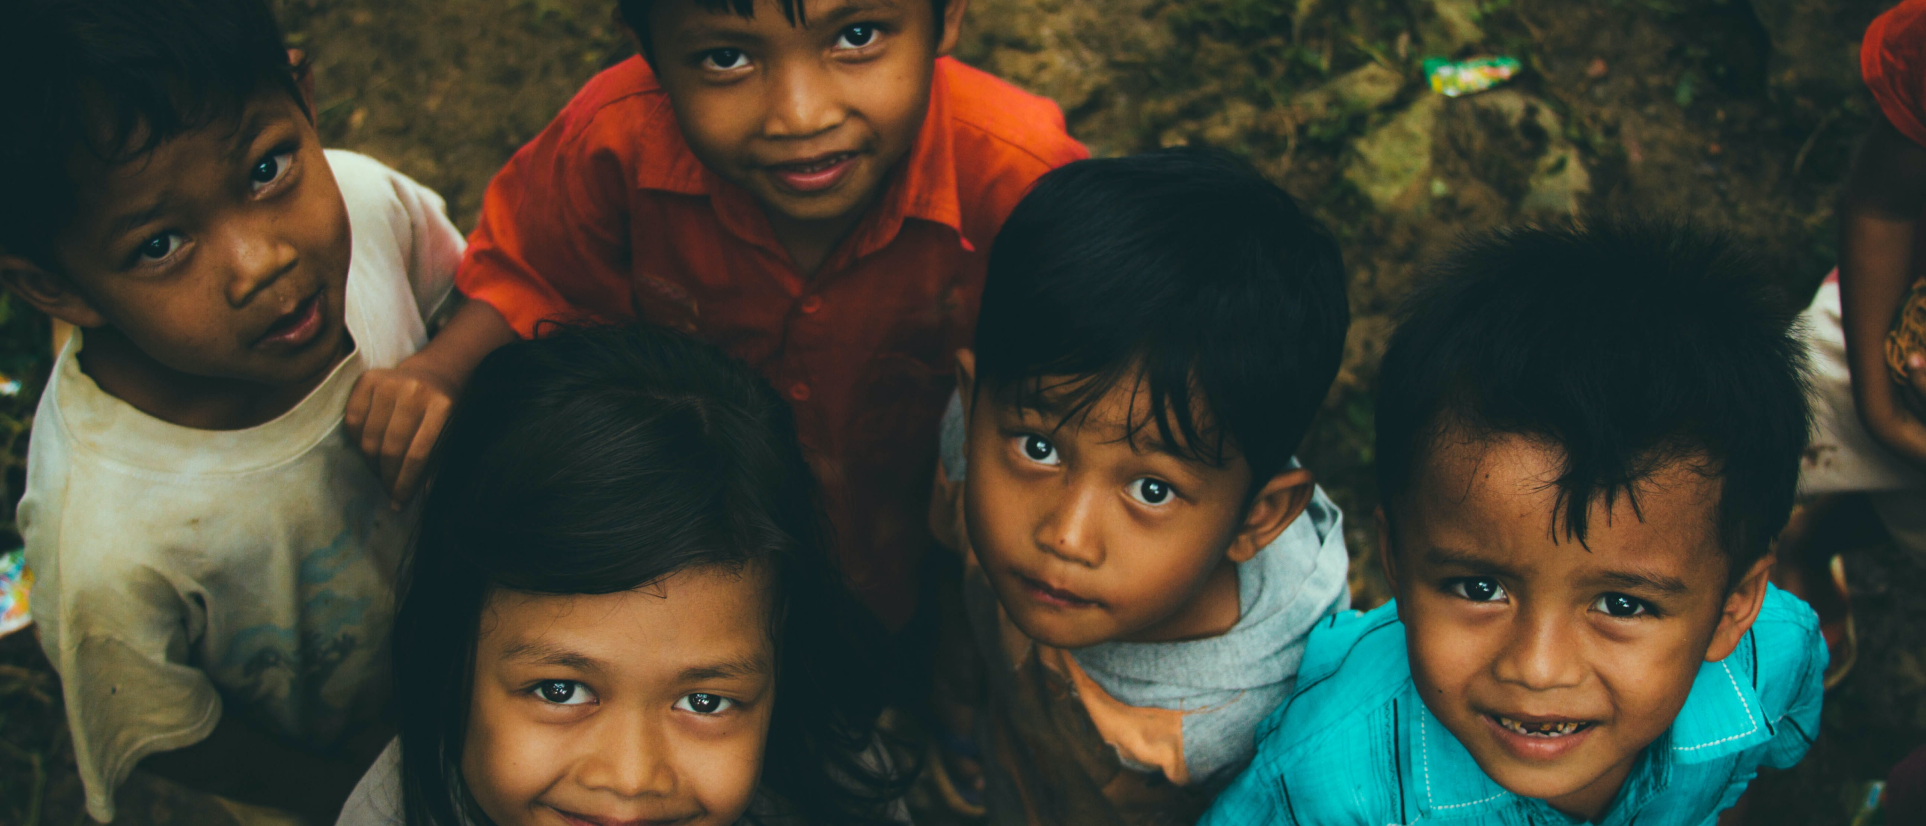
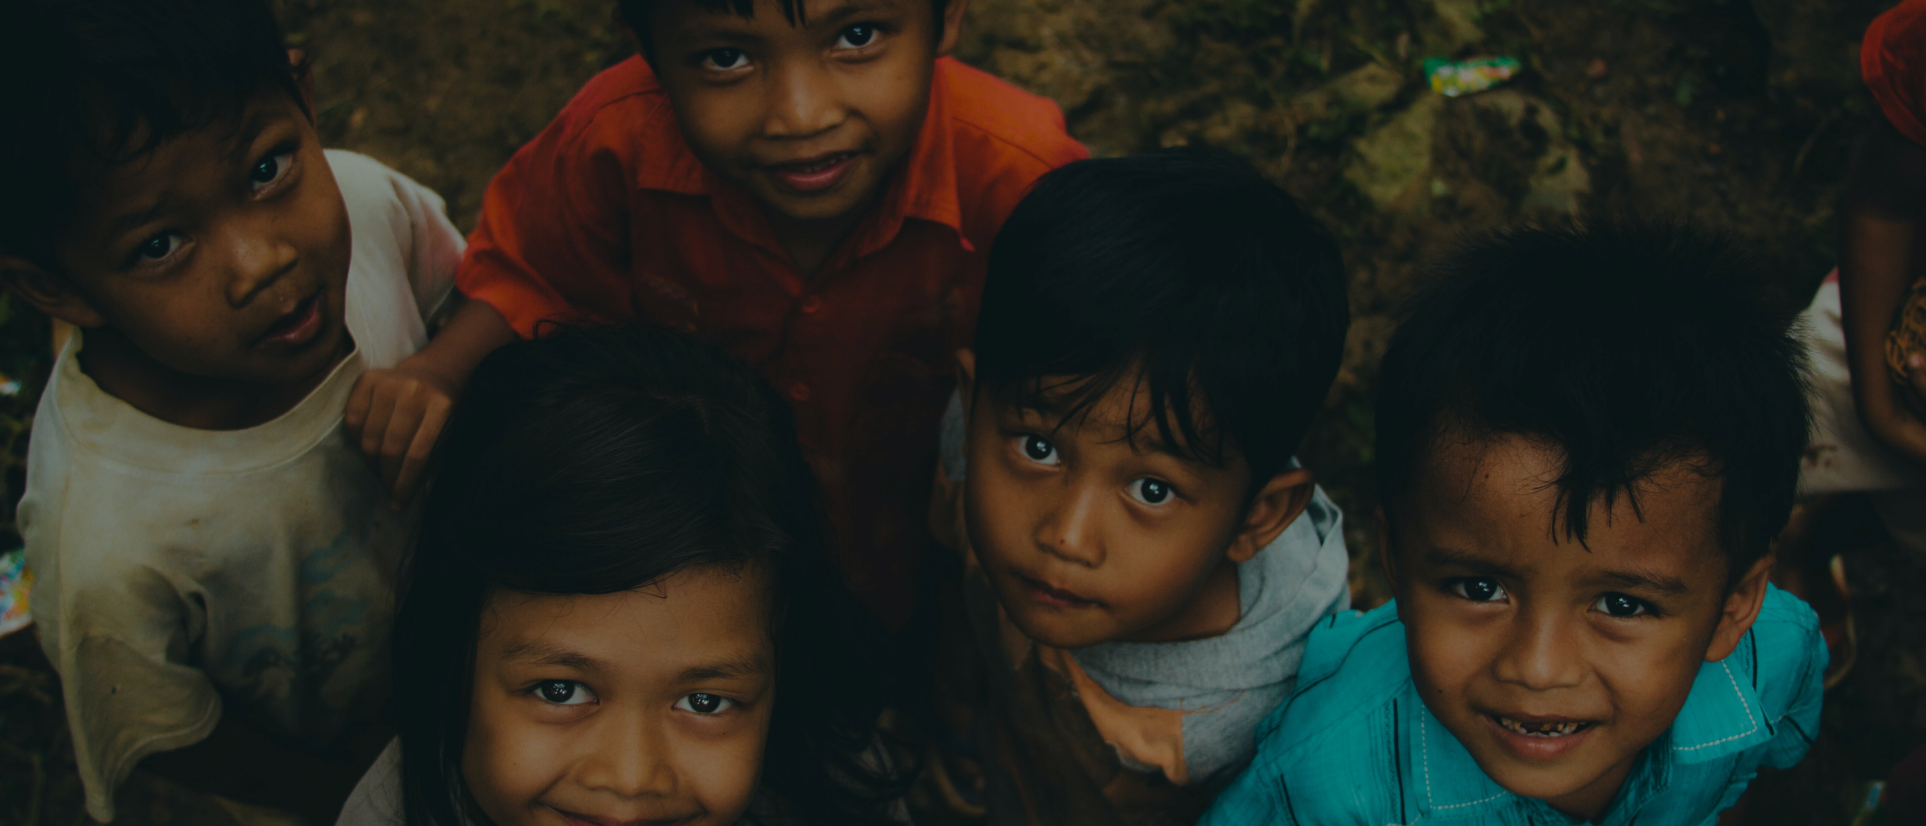
feat: all the fix are working

diff --git a/src/components/Navbar/index.jsx b/src/components/Navbar/index.jsx
@@ -3,15 +3,21 @@ import { useTranslation } from "next-i18next";
 import { useEffect, useState } from "react";
 import { useSelector } from "react-redux";
 
+import LanguageDropdown from "../Language";
+
 function Navbar() {
     const productData = useSelector((state) => state.shopper.productData);
     const [totalAmt, setTotalAmt] = useState("");
-    const [isSelected, setIsSelected] = useState(false);
-    const { t } = useTranslation("common");
 
-    function handleLagSelection() {
-        setIsSelected((isSelected) => !isSelected);
-    }
+    const { t, i18n } = useTranslation("navbar");
+    const [selectedLanguage, setSelectedLanguage] = useState(i18n.language);
+    const [isSelected, setIsSelected] = useState(false);
+
+    const handleLanguageChange = (languageChange) => {
+        setSelectedLanguage(languageChange);
+        setIsSelected(false);
+        i18n.changeLanguage(languageChange);
+    };
 
     useEffect(() => {
         let price = 0;
@@ -23,7 +29,7 @@ function Navbar() {
     }, [productData]);
 
     return (
-        <nav className='flex items-center justify-center  bg-sky-400 h-16'>
+        <nav className='flex items-center justify-center  bg-[#43AFD6] h-16'>
             <div className='flex items-center justify-center gap-40'>
                 {/* Logo and the name of the website the icon */}
 
@@ -31,7 +37,7 @@ function Navbar() {
                     <Link href='/'>
                         <img src='/Logo.svg' alt='Logo' className='mt-4' />
                     </Link>
-                    <div className='grid md:flex mx-auto justify-items-start text-slate-100 hover:text-gray-500 text-xl font-bold md:text-2x'>
+                    <div className='md:flex mx-auto justify-items-start text-slate-100 hover:text-gray-500 text-xl font-bold md:text-2x hidden'>
                         <Link href='/home'>
                             <img
                                 src='/LogoFood.svg'
@@ -45,17 +51,17 @@ function Navbar() {
                 </div>
                 <div className='hidden md:flex px-4 mx-auto font-semibold font-heading space-x-0'>
                     <Link href='/home'>
-                        <p className='text-slate-100 bg-sky-400 py-5 px-5 hover:bg-sky-300'>
+                        <p className='text-slate-100 bg-[#43AFD6] py-5 px-5 hover:bg-[#43acd6]'>
                             {t("navbar.home")}
                         </p>
                     </Link>
                     <Link href='/coupons'>
-                        <p className='text-slate-100 bg-sky-400 py-5 px-5 hover:bg-sky-300'>
+                        <p className='text-slate-100 bg-[#43AFD6] py-5 px-5 hover:bg-[#43acd6]'>
                             {t("navbar.coupons")}
                         </p>
                     </Link>
                     <Link href='/Blog'>
-                        <p className='text-slate-100 bg-sky-400 py-5 px-5 hover:bg-sky-300'>
+                        <p className='text-slate-100 bg-[#43AFD6] py-5 px-5 hover:bg-[#43acd6]'>
                             {t("navbar.blog")}
                         </p>
                     </Link>
@@ -83,19 +89,18 @@ function Navbar() {
                     </div>
 
                     <div>
-                        <div
-                            className='w-10 h-10 font-bold text-center pt-2 bg-white rounded-full'
-                            onClick={handleLagSelection}
-                        >
-                            {isSelected ? (
-                                <Link href='/' locale='en'>
-                                    EN
-                                </Link>
-                            ) : (
-                                <Link href='/' locale='ar'>
-                                    AR
-                                </Link>
-                            )}
+                        <div className='flex items-center space-x-5'>
+                            <LanguageDropdown
+                                selectedLanguage={selectedLanguage}
+                                onLanguageChange={handleLanguageChange}
+                            />
+                            <div onClick={() => setIsSelected(!isSelected)}>
+                                {isSelected ? (
+                                    <Link href='/' locale='en'></Link>
+                                ) : (
+                                    <Link href='/' locale='ar'></Link>
+                                )}
+                            </div>
                         </div>
                     </div>
                 </div>

diff --git a/src/pages/Blog.jsx b/src/pages/Blog.jsx
@@ -1,60 +1,56 @@
-import { useTranslation } from "next-i18next";
-import React, { useEffect, useState } from "react";
 import Link from "next/link";
+import { useTranslation } from "next-i18next";
+import React from "react";
+
 import BlogCard from "@/components/BlogCard";
 
 function Blog({ articles }) {
-    const { t } = useTranslation("blog", "common", "footer");
+    const { t } = useTranslation("blog", "footer", "navbar");
 
     return (
         <div>
-            <div className='absolute flex items-center justify-between'>
+            <div className='bg-cover bg-center h-[30vh] sm:h-[50vh] md:h-[70vh] text-white object-fill'>
                 <img
-                    className='relative top-0 right-0 bottom-0 left-0 h-full w-full overflow'
+                    className='top-0 left-0 h-full w-full object-cover'
                     src='children.png'
                     alt='children image'
                 />
-                <div className='absolute top-0 right-0 bottom-0 left-0 h-full w-full overflow bg-[hsla(0,0%,0%,0.75)]'>
-                    <div className='flex h-full items-center justify-center'>
-                        <div className='px-6 text-center text-white md:px-12'>
-                            <h1 className='mt-2 mb-1 text-4xl font-semibold tracking-tight'>
-                                <span>{t("blog.lives")}</span>
-                            </h1>
-                            <p className='text-xl mb-10'>{t("blog.give")}</p>
 
-                            <button
-                                onClick={() =>
-                                    console.log("Donate button clicked")
-                                }
-                                className='bg-green-500 hover:bg-green-700 text-white font-bold py-2 px-4 rounded-full w-[150px]'
+                <div className='absolute top-1/2 text-white left-1/2 transform -translate-x-1/2 -translate-y-1/2 text-center'>
+                    <h1 className='text-4xl  font-semibold tracking-tight mb-1'>
+                        <span>{t("blog.lives")}</span>
+                    </h1>
+                    <p className='text-xl mb-10'>{t("blog.give")}</p>
+
+                    <button
+                        onClick={() => console.log("Donate button clicked")}
+                        className='bg-green-500 hover:bg-green-700 text-white font-bold py-2 px-4 rounded-full w-[150px]'
+                    >
+                        Donate 🤍
+                    </button>
+                </div>
+            </div>
+
+            <div>
+                <p className='text-xl font-semibold text-sky-600'>
+                    {t("blog.latest")}
+                </p>
+                <p className='text-gray-600'>{t("blog.needs")}</p>
+            </div>
+
+            <div>
+                <div className='flex flex-wrap justify-center'>
+                    {articles?.map((article, index) => (
+                        <div key={index} className='mx-2'>
+                            <Link
+                                href={`/blog/${encodeURIComponent(
+                                    article.title
+                                )}`}
                             >
-                                Donate 🤍
-                            </button>
+                                <BlogCard blog={article} />
+                            </Link>
                         </div>
-                    </div>
-
-                    <div>
-                        <p className='text-xl font-semibold text-sky-600'>
-                            {t("blog.latest")}
-                        </p>
-                        <p className='text-gray-600'>{t("blog.needs")}</p>
-                    </div>
-
-                    <div>
-                        <div className='flex flex-wrap justify-center'>
-                            {articles?.map((article, index) => (
-                                <div key={index} className='mx-2'>
-                                    <Link
-                                        href={`/blog/${encodeURIComponent(
-                                            article.title
-                                        )}`}
-                                    >
-                                        <BlogCard blog={article} />
-                                    </Link>
-                                </div>
-                            ))}
-                        </div>
-                    </div>
+                    ))}
                 </div>
             </div>
         </div>

diff --git a/src/components/Language/index.jsx b/src/components/Language/index.jsx
@@ -1,0 +1,82 @@
+import React, { useState } from "react";
+
+const LanguageDropdown = ({ selectedLanguage, onLanguageChange }) => {
+    const [isOpen, setIsOpen] = useState(false);
+
+    const handleDropdownToggle = () => {
+        setIsOpen(!isOpen);
+    };
+
+    return (
+        <div className='relative z-[2000] inline-block text-left '>
+            <div>
+                <button
+                    type='button'
+                    className='flex items-center space-x-2 focus:outline-none'
+                    onClick={handleDropdownToggle}
+                >
+                    {selectedLanguage === "en" ? (
+                        <img
+                            className='w-6 h-6 rounded-full'
+                            src='gb.svg'
+                            alt='US'
+                        />
+                    ) : (
+                        <img
+                            className='w-6 h-6 rounded-full'
+                            src='dz.svg'
+                            alt='DZ'
+                        />
+                    )}
+                    <span>
+                        {selectedLanguage === "en" ? "English" : "العربية"}
+                    </span>
+                </button>
+            </div>
+
+            {/* Dropdown menu */}
+            {isOpen && (
+                <div
+                    className='origin-top-right absolute right-0 mt-2 w-24 rounded-md shadow-lg bg-white ring-1 ring-black ring-opacity-5'
+                    role='menu'
+                    aria-orientation='vertical'
+                >
+                    <div className='py-1' role='none'>
+                        <button
+                            className='block px-4 py-2 text-sm text-gray-700 hover:bg-gray-100 hover:text-gray-900'
+                            role='menuitem'
+                            onClick={() => {
+                                handleDropdownToggle();
+                                onLanguageChange("en");
+                            }}
+                        >
+                            <img
+                                src='gb.svg'
+                                className='w-4 h-4 mr-2'
+                                name='GB'
+                            />
+                            English
+                        </button>
+                        <button
+                            className='block px-4 py-2 text-sm text-gray-700 hover:bg-gray-100 hover:text-gray-900'
+                            role='menuitem'
+                            onClick={() => {
+                                handleDropdownToggle();
+                                onLanguageChange("ar");
+                            }}
+                        >
+                            <img
+                                src='dz.svg'
+                                className='w-4 h-4 mr-2'
+                                name='DZ'
+                            />
+                            العربية
+                        </button>
+                    </div>
+                </div>
+            )}
+        </div>
+    );
+};
+
+export default LanguageDropdown;

diff --git a/src/pages/index.jsx b/src/pages/index.jsx
@@ -1,13 +1,13 @@
 import { serverSideTranslations } from "next-i18next/serverSideTranslations";
 import React from "react";
 
-import Steps from "@/components/donation/Steps";
-import Email from "@/components/Email/Email";
-import Blogcontainer from "@/containers/Blogcontainer";
 import Banner from "@/components/Banner";
 import Goal from "@/components/donation/Goal";
+import Steps from "@/components/donation/Steps";
+import Email from "@/components/Email/Email";
 import MemberList from "@/components/Members/MemberList";
 import Sponsor from "@/components/sponsors/sponsor";
+import Blogcontainer from "@/containers/Blogcontainer";
 
 function homepage() {
     return (
@@ -52,6 +52,7 @@ export async function getStaticProps({ locale }) {
                 "footer",
                 "members",
                 "sponsor",
+                "navbar",
             ])),
             // Will be passed to the page component as props
         },

diff --git a/src/pages/home.jsx b/src/pages/home.jsx
@@ -1,13 +1,13 @@
 import { serverSideTranslations } from "next-i18next/serverSideTranslations";
 import React from "react";
 
-import Steps from "@/components/donation/Steps";
-import Email from "@/components/Email/Email";
-import Blogcontainer from "@/containers/Blogcontainer";
 import Banner from "@/components/Banner";
 import Goal from "@/components/donation/Goal";
+import Steps from "@/components/donation/Steps";
+import Email from "@/components/Email/Email";
 import MemberList from "@/components/Members/MemberList";
 import Sponsor from "@/components/sponsors/sponsor";
+import Blogcontainer from "@/containers/Blogcontainer";
 
 function home() {
     return (
@@ -52,6 +52,7 @@ export async function getStaticProps({ locale }) {
                 "footer",
                 "members",
                 "sponsor",
+                "navbar",
             ])),
             // Will be passed to the page component as props
         },
